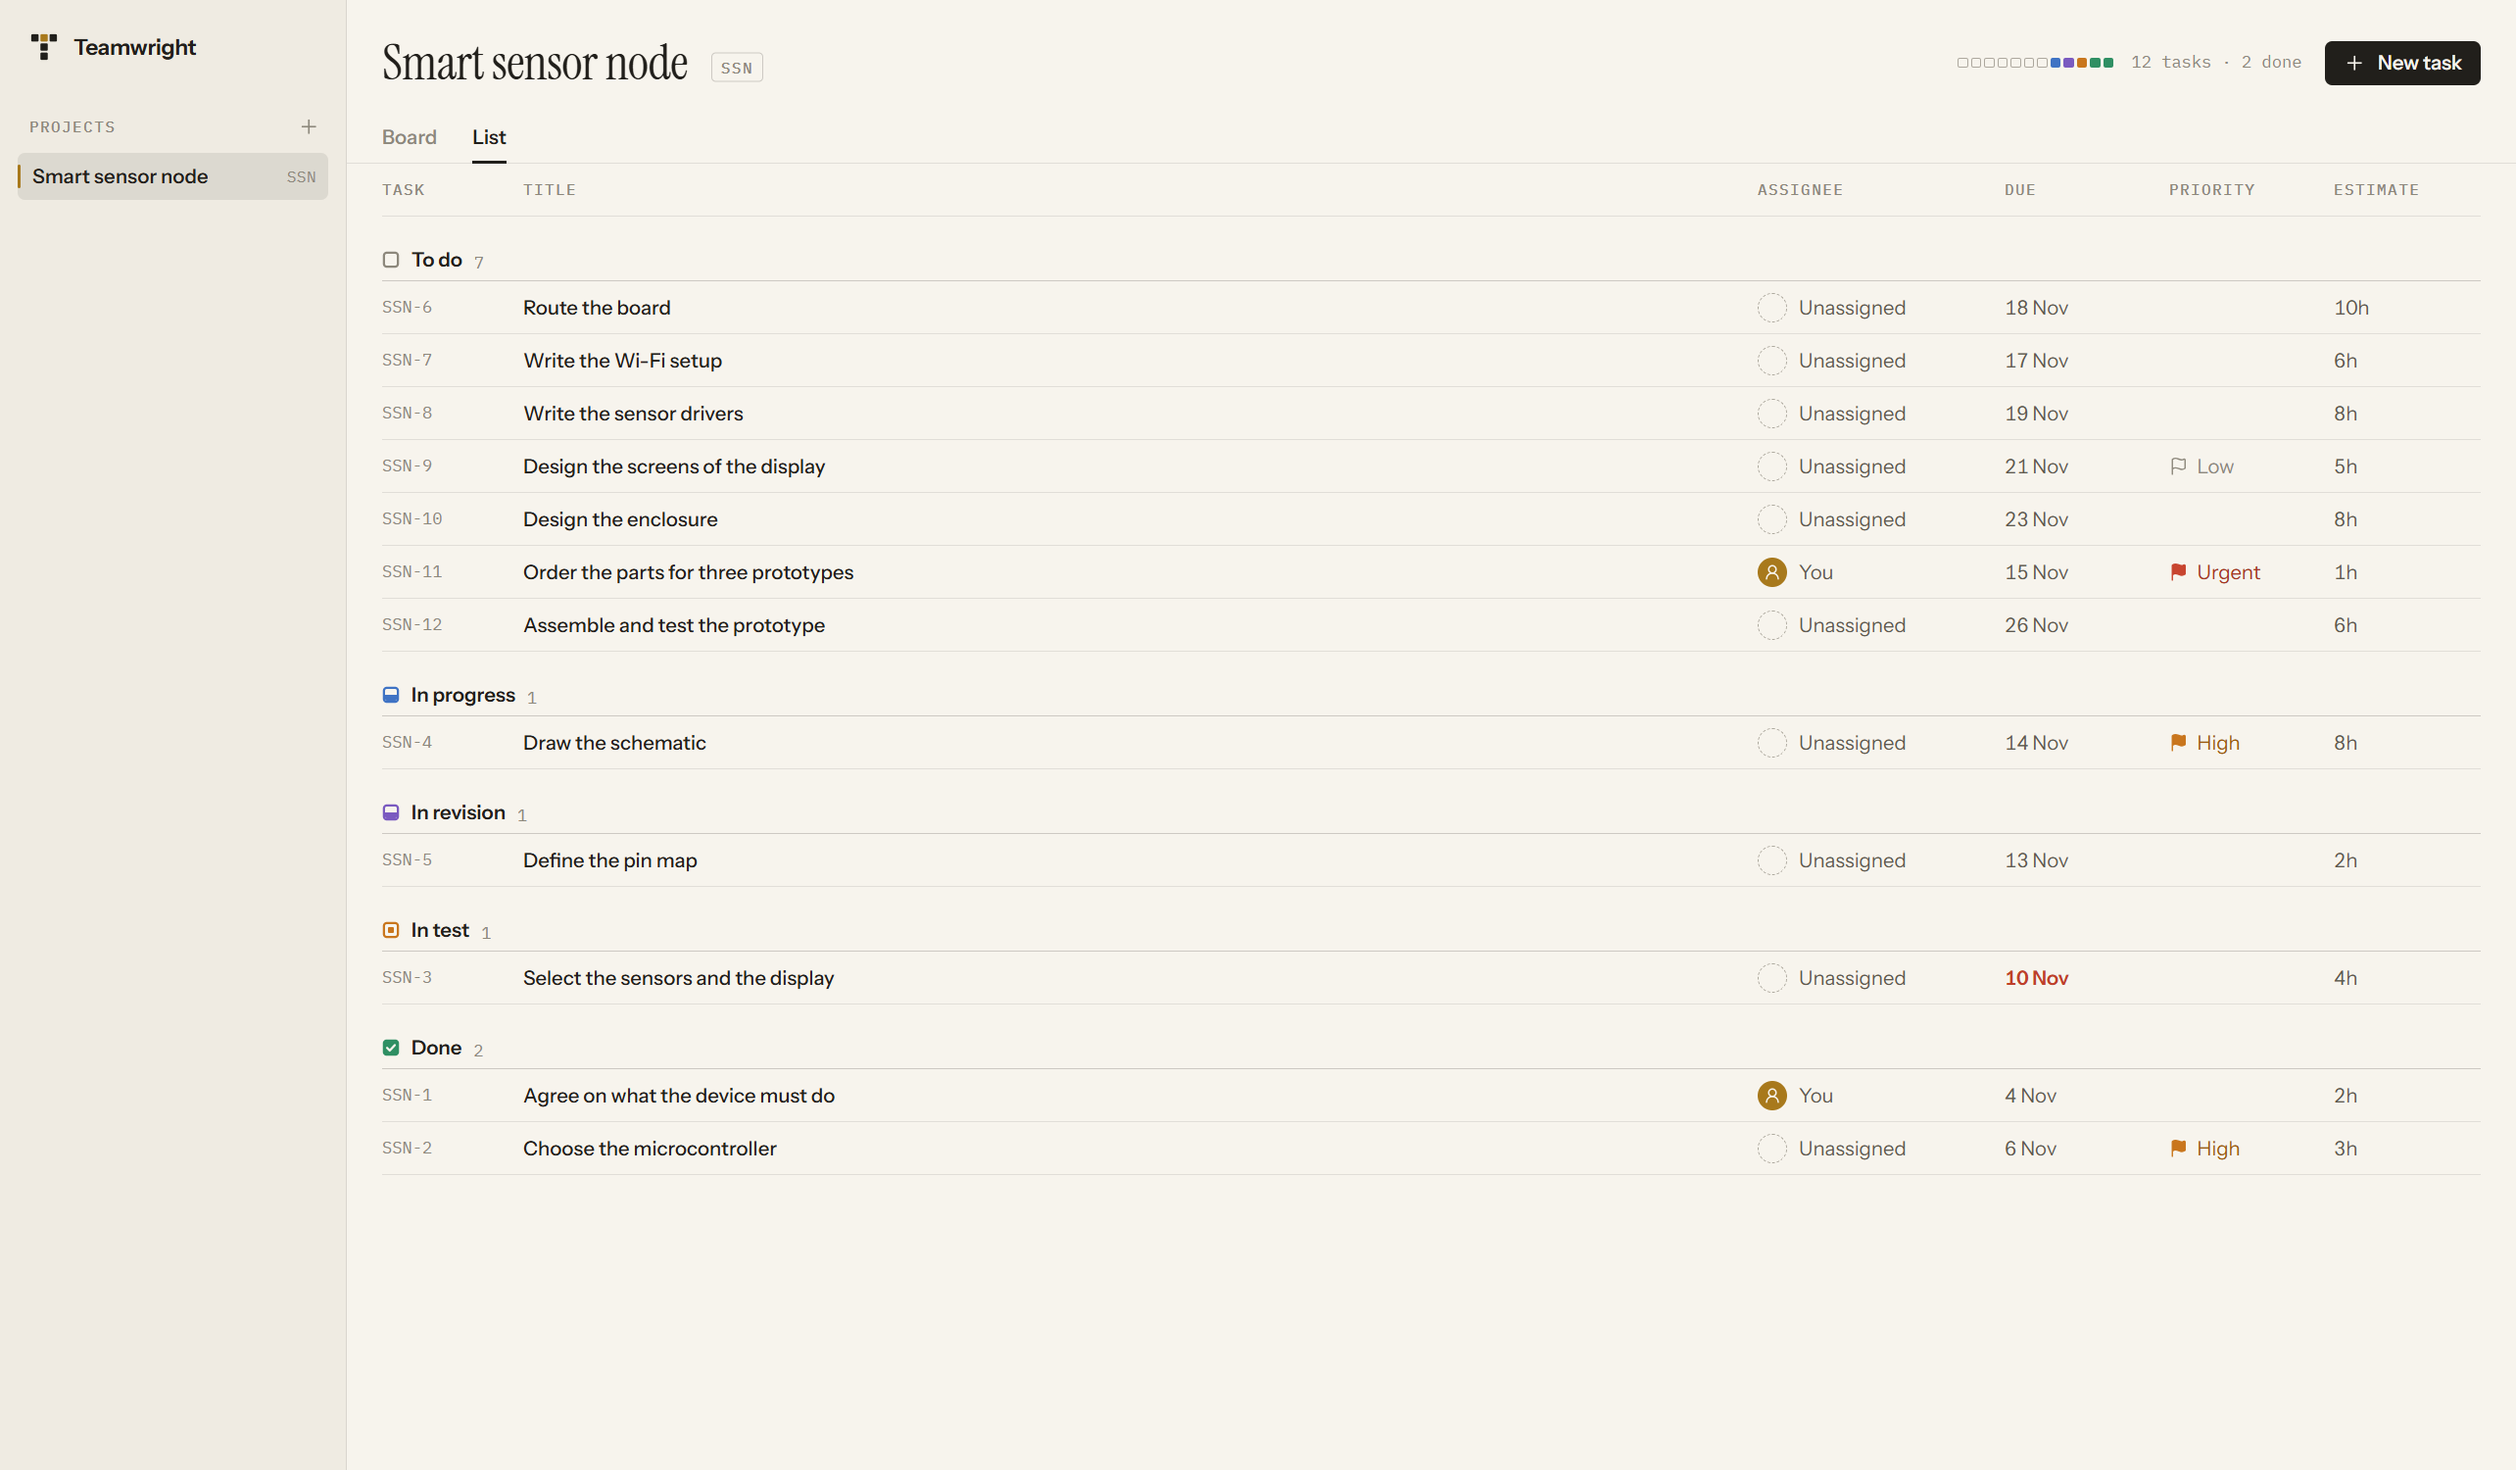
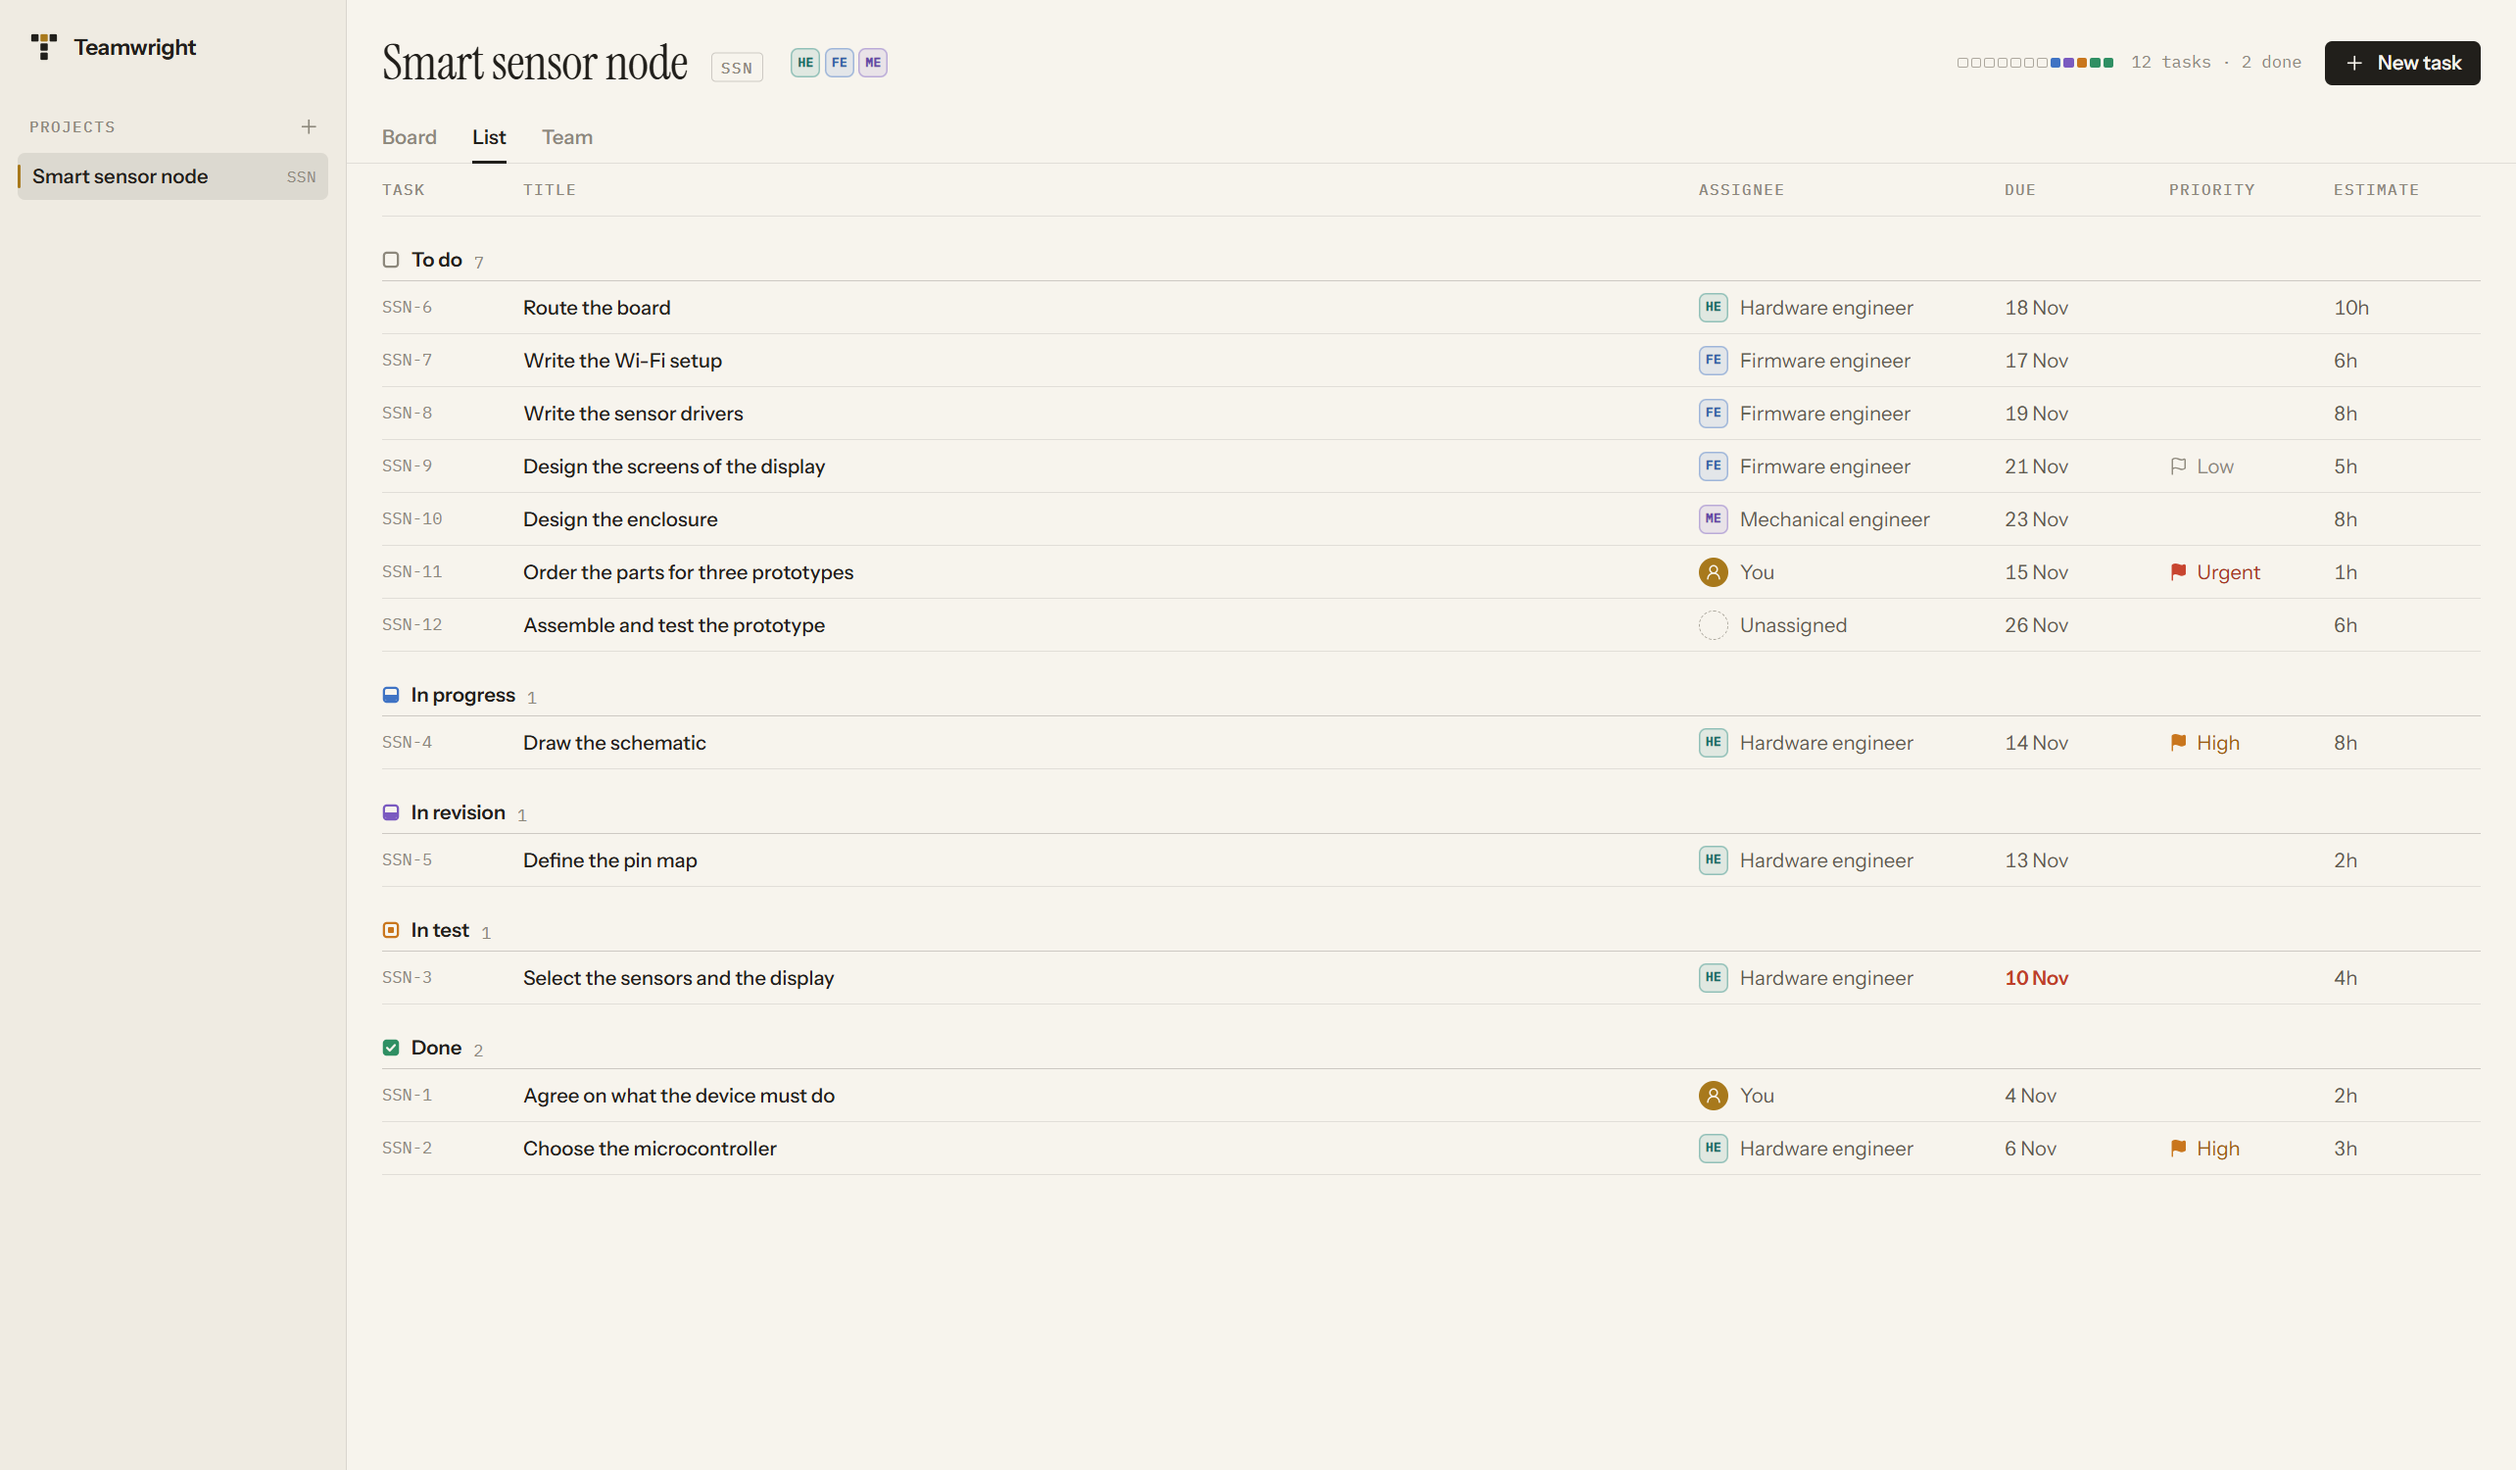
docs(screenshots): give the sample project a team and take a picture of it
The screenshot tool puts three AI specialists on the team of the sample
project and gives them most of its tasks, as the demo data of the
interface does. It takes a new picture, of the Team view, and all pictures
are taken again: cards, rows and the task panel now show who a task is
given to, and the header shows the team.

diff --git a/docs/screenshots/README.md b/docs/screenshots/README.md
@@ -11,6 +11,7 @@ show them. Every picture exists twice: `-dark.png` for the dark theme and
 | `board` | The board of the sample project |
 | `task` | A task opened from the board |
 | `list` | The list of the sample project |
+| `team` | The team of the sample project |
 
 Nobody edits these files by hand.
 [A tool](../../tools/screenshots/capture-screenshots.mjs) starts the built
